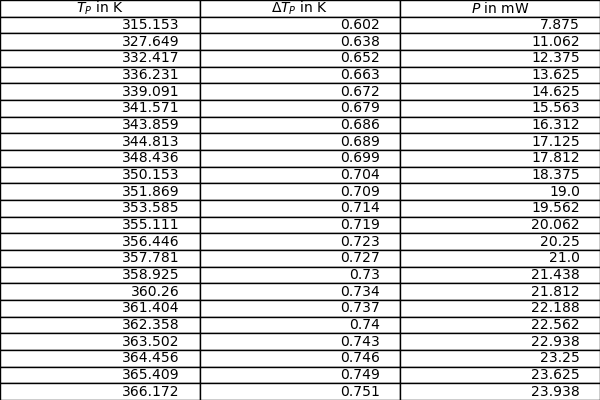
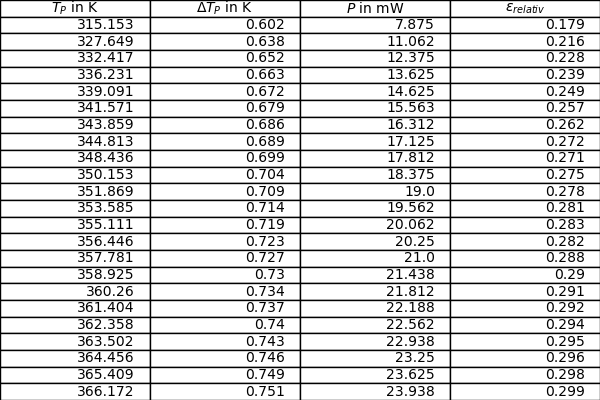
W4b

diff --git a/AP (Python)/AP3/W4b.py b/AP (Python)/AP3/W4b.py
@@ -116,7 +116,8 @@ for i in range(1,6):
     b.append(np.around(x_data[i],3))
     b.append(np.around(xerr[i],3))
     b.append(np.around(y_data[i],3))
-    labels = ["$T_{P}$ in K","$\Delta T_{P}$ in K","$P$ in mW"]
+    b.append(np.around(y_data[i]*1e-3/(((x_data[i])**4)*Fl*boltz),3))
+    labels = ["$T_{P}$ in K","$\Delta T_{P}$ in K","$P$ in mW","$\epsilon_{relativ}$"]
     b = np.array(b).T
     fig.append(plt.figure())
     ax.append(fig[i+5].add_axes([0,0,1,1]))
